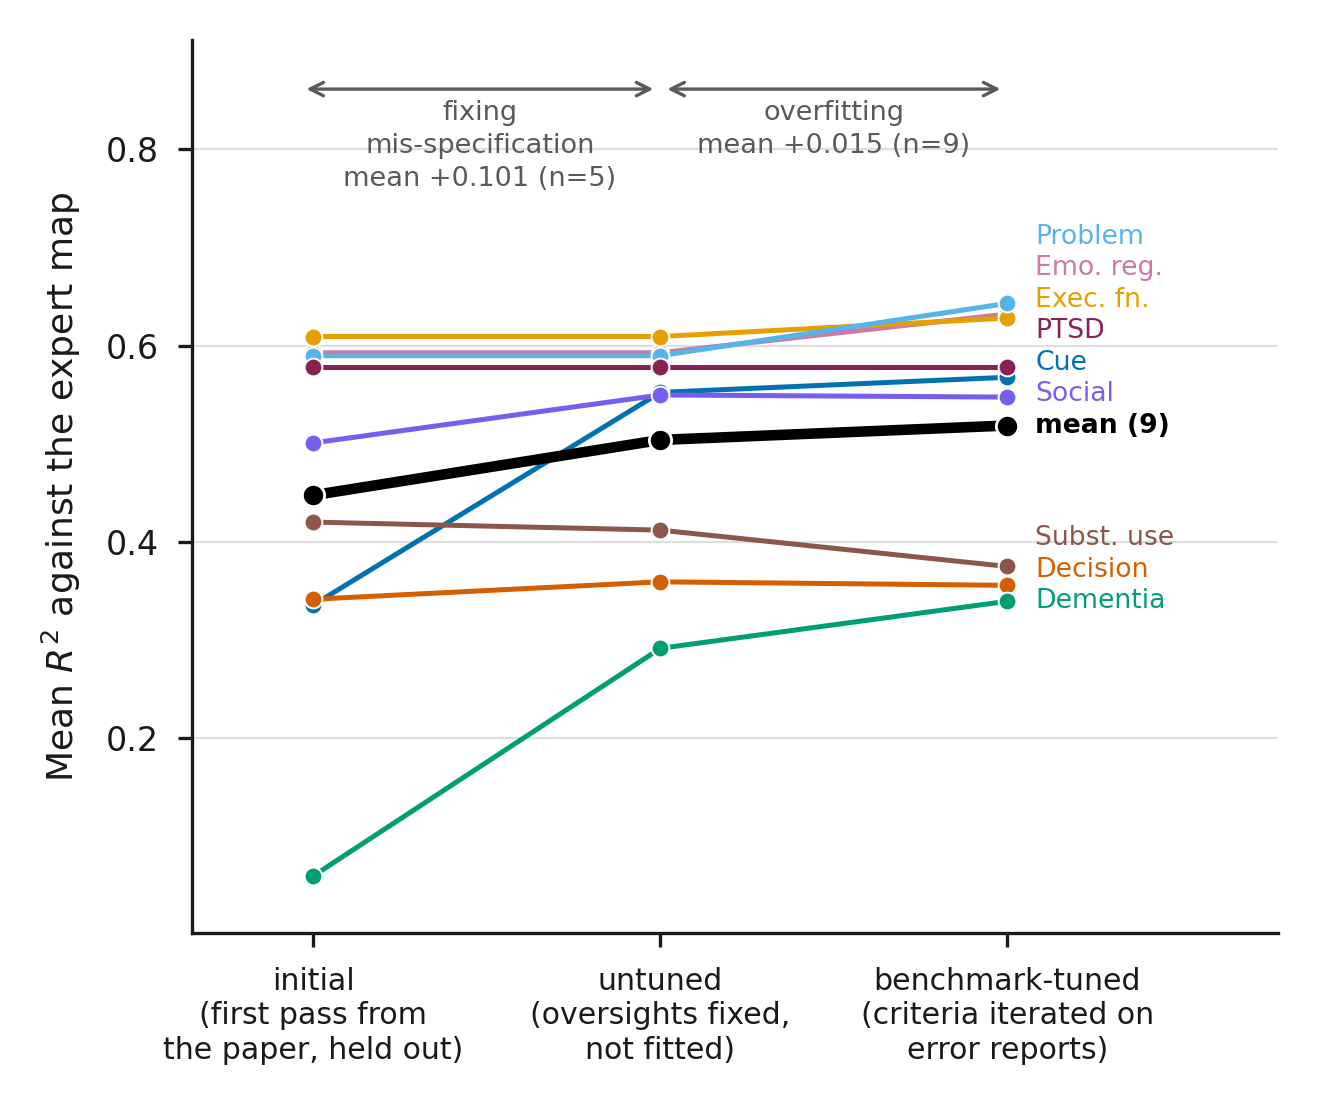
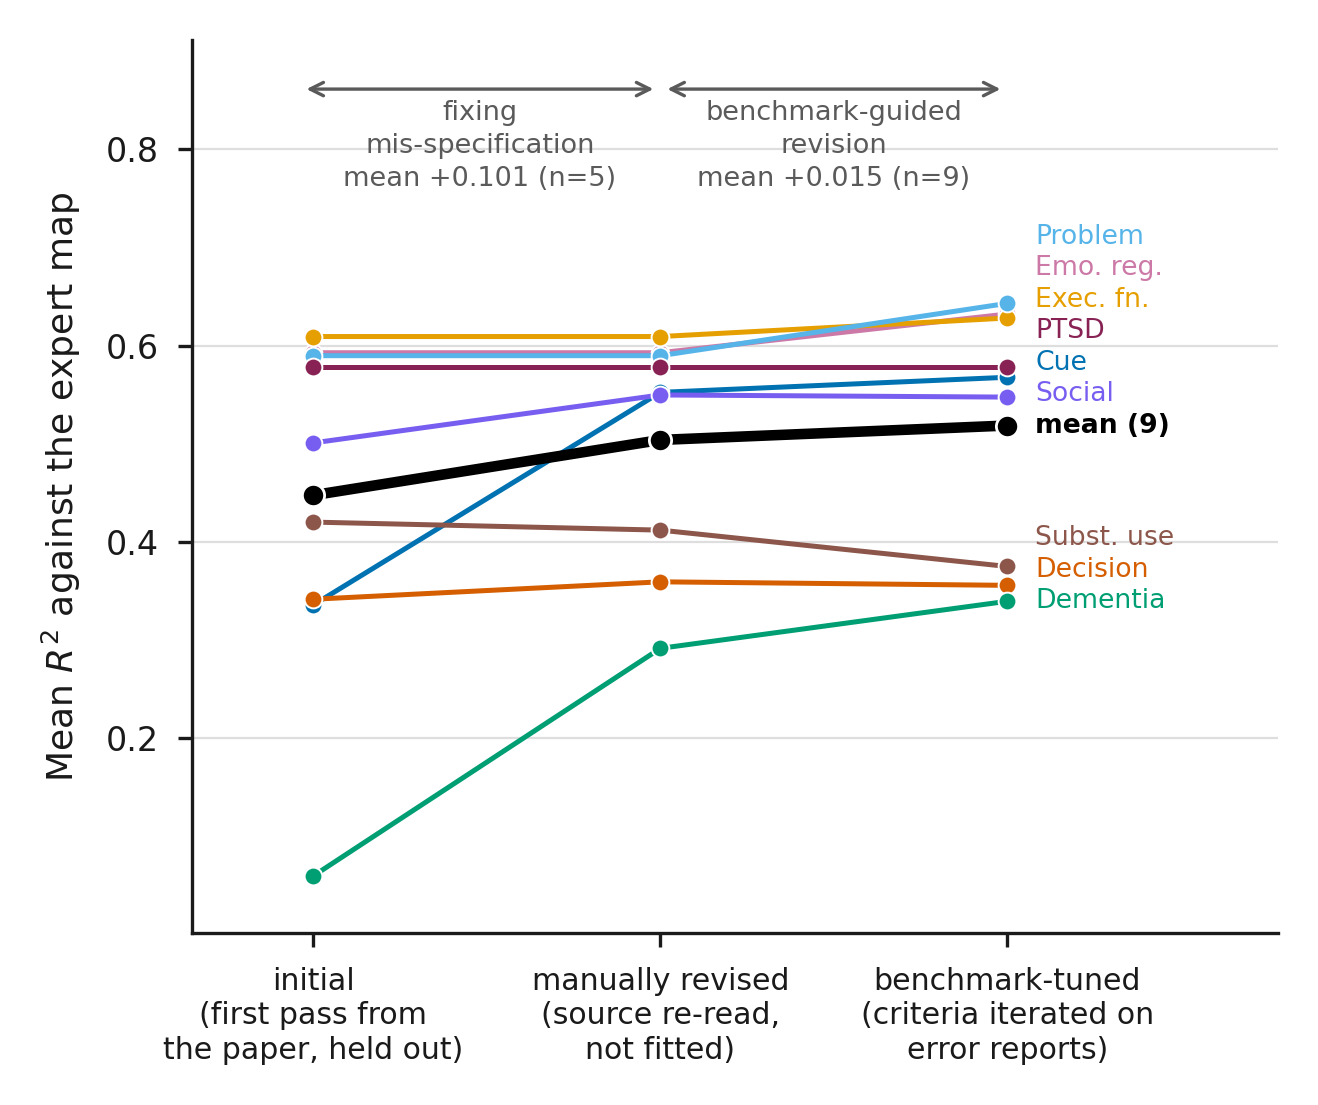
Label the middle tier "manually revised"; drop "overfitting"
Two label changes to figure S1.

1. The axis label `untuned` becomes "manually revised (source re-read, not
fitted)" -- the author's request, so the figure reads without the repo's
internal jargon. The registry KEY stays `untuned`: it is a stable identifier
used by every script and by this history, and a third rename of it would churn
far more than it clarifies. The mapping is label-only.

2. The second segment's arrow no longer says "overfitting". That is a
correction, not a softening. Classifying all 14 tier transitions against the
source publications (reports/criteria_changes.xlsx; 11 of 14 verified against
a source full text) found that 6 of the 9 tuning revisions still track the
source paper -- restoring criteria it states, clarifying ones it leaves vague,
or following criteria it states but does not itself apply. Only 3 have no
source argument available. Labelling the whole segment "overfitting"
contradicts the repo's own evidence. It now reads "benchmark-guided revision"
and the composition is reported separately in
reports/best_path_composition.png.

The figureS1 docstring is rewritten to match: it still cites the two effects
but no longer calls the second one the overfitting estimate, and its numbers
are updated from the stale n=2 pair to the current n=5 / n=9.

Changed region(s): [[0.5288, 0.0923, 0.7466, 0.1846], [0.4044, 0.8615, 0.591, 0.9538]]

diff --git a/paper/make_nature_methods_figures.py b/paper/make_nature_methods_figures.py
@@ -1224,16 +1224,25 @@ def figureS3(out_dir: Path) -> None:
 # -------------------------------------------------------------------- Supplementary S1
 
 def figureS1(out_dir: Path) -> None:
-    """Two different effects live in the tier progression, and only the second one is overfitting.
+    """Two different effects live in the tier progression, and NEITHER is simply overfitting.
 
     run_categories.yaml orders runs by how much benchmark information shaped their criteria. It is
     tempting to read the whole `initial -> best` rise as leakage, and an earlier version of this
     figure did. That is wrong, and the split says why:
 
-      initial -> manual   the project author, having seen reports, fixed MAJOR OVERSIGHTS in the
-                           criteria -- things that were simply mis-specified. n = 2, mean +0.221.
-      manual   -> best     criteria rewritten against the error reports in full. This is the
-                           overfitting estimate. n = 2, mean +0.031.
+      initial -> untuned           manual revision, mostly from re-reading the source publication:
+                                   omissions restored, mis-transcriptions corrected, vague clauses
+                                   operationalised. n = 5, mean +0.101.
+      untuned -> benchmark_tuned   criteria revised against the error reports. n = 9, mean +0.015.
+
+    THE SECOND SEGMENT IS NOT LABELLED "overfitting" ANY MORE, and that is a correction, not a
+    softening. Classifying all 14 tier transitions against the source publications (see
+    reports/criteria_changes.xlsx, 11 of 14 verified against a source full text) found that 6 of
+    the 9 tuning revisions still track the source paper -- restoring criteria it states,
+    clarifying ones it leaves vague, or following criteria it states but does not itself apply.
+    Only 3 have no source argument available. Calling the whole segment overfitting would
+    contradict the repo's own evidence, so it is now "benchmark-guided revision" and the
+    composition is reported separately.
 
     So almost the entire rise is the cost of getting the criteria wrong, not the benefit of having
     seen the answers. That reframes the result from a caveat into a finding: the live risk in
@@ -1253,7 +1262,7 @@ def figureS1(out_dir: Path) -> None:
     # fourth point would double-count the winner and invent a rise that is really a max.
     TIER_ORDER = ["initial", "untuned", "benchmark_tuned"]
     LABEL = {"initial": "initial\n(first pass from\nthe paper, held out)",
-             "untuned": "untuned\n(oversights fixed,\nnot fitted)",
+             "untuned": "manually revised\n(source re-read,\nnot fitted)",
              "benchmark_tuned": "benchmark-tuned\n(criteria iterated on\nerror reports)",
              "best": "best\n(whichever of the\nthree won)"}
 
@@ -1344,7 +1353,7 @@ def figureS1(out_dir: Path) -> None:
     y0, y1 = ax.get_ylim()
     band = y1 - 0.055 * (y1 - y0)
     for (x0, x1), lab, deltas in ((( -0.02, 0.98), "fixing\nmis-specification", vm),
-                                  ((1.02, 1.98), "overfitting", mb)):
+                                  ((1.02, 1.98), "benchmark-guided\nrevision", mb)):
         ax.annotate("", xy=(x1, band), xytext=(x0, band),
                     arrowprops=dict(arrowstyle="<->", lw=0.6, color=MUTED, shrinkA=0, shrinkB=0))
         txt = (f"{lab}\nmean {st.mean(deltas.values()):+.3f} (n={len(deltas)})"
